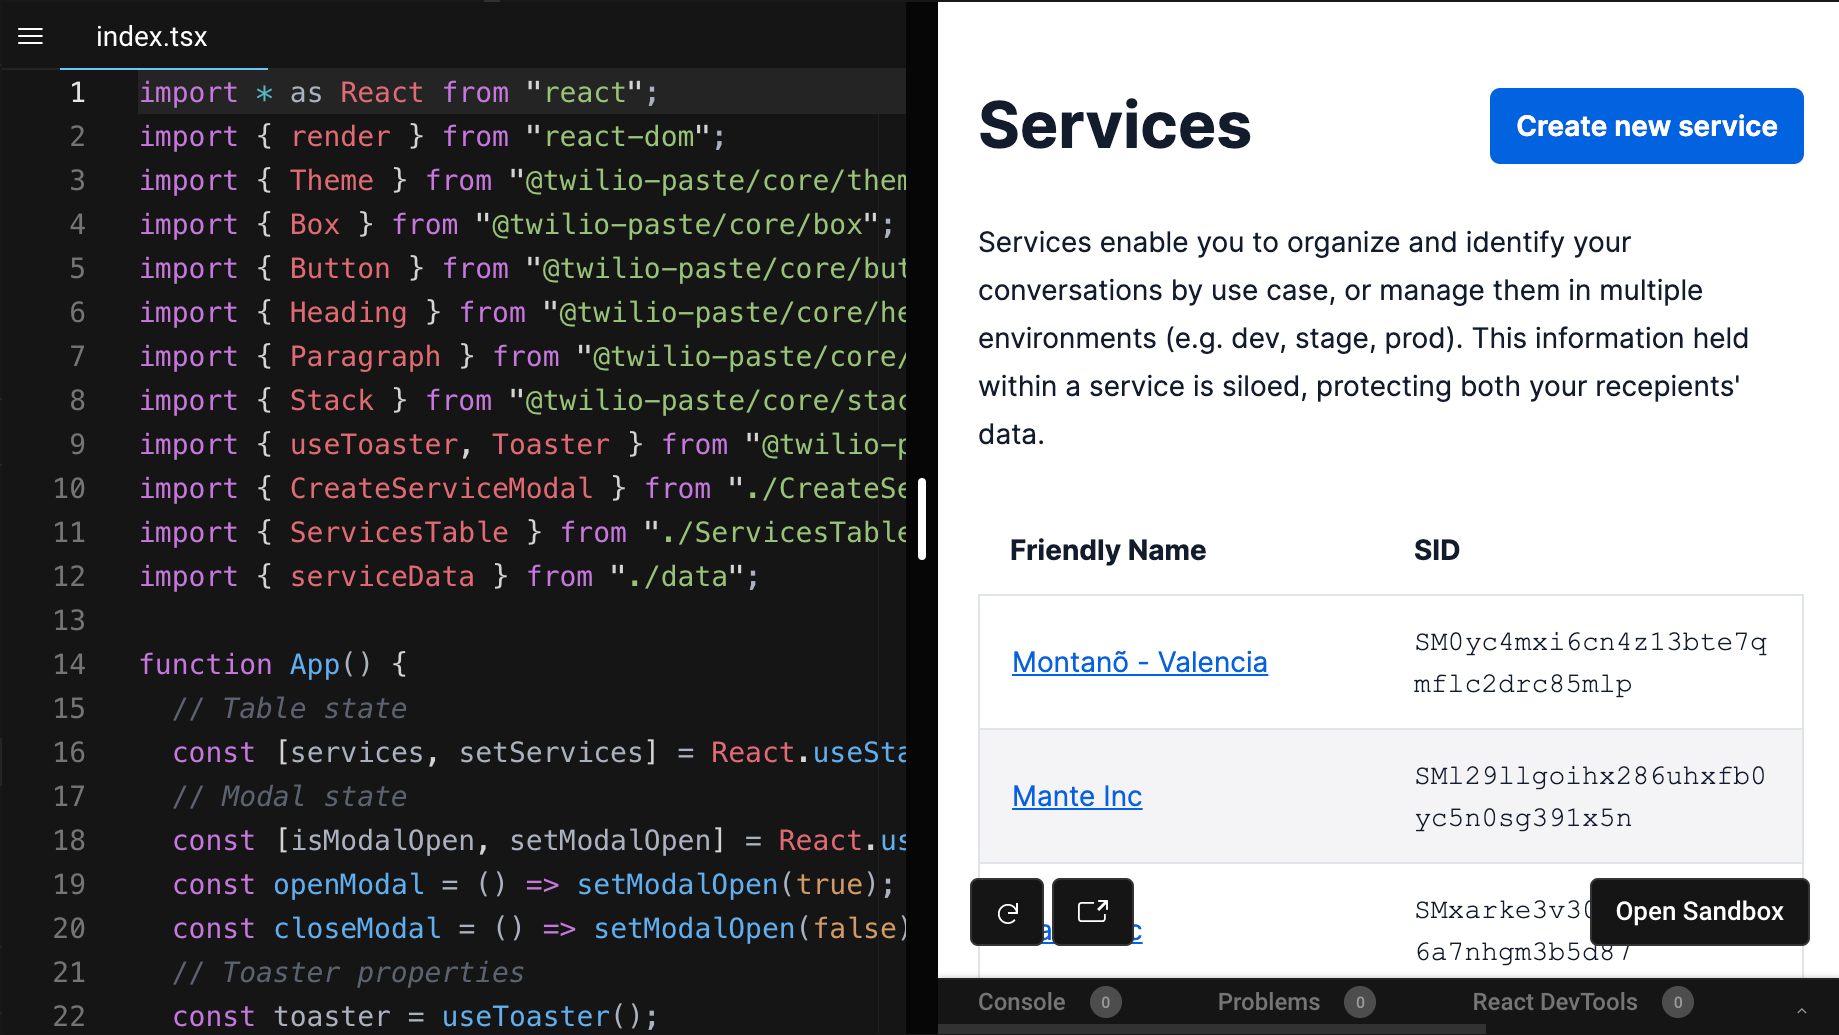
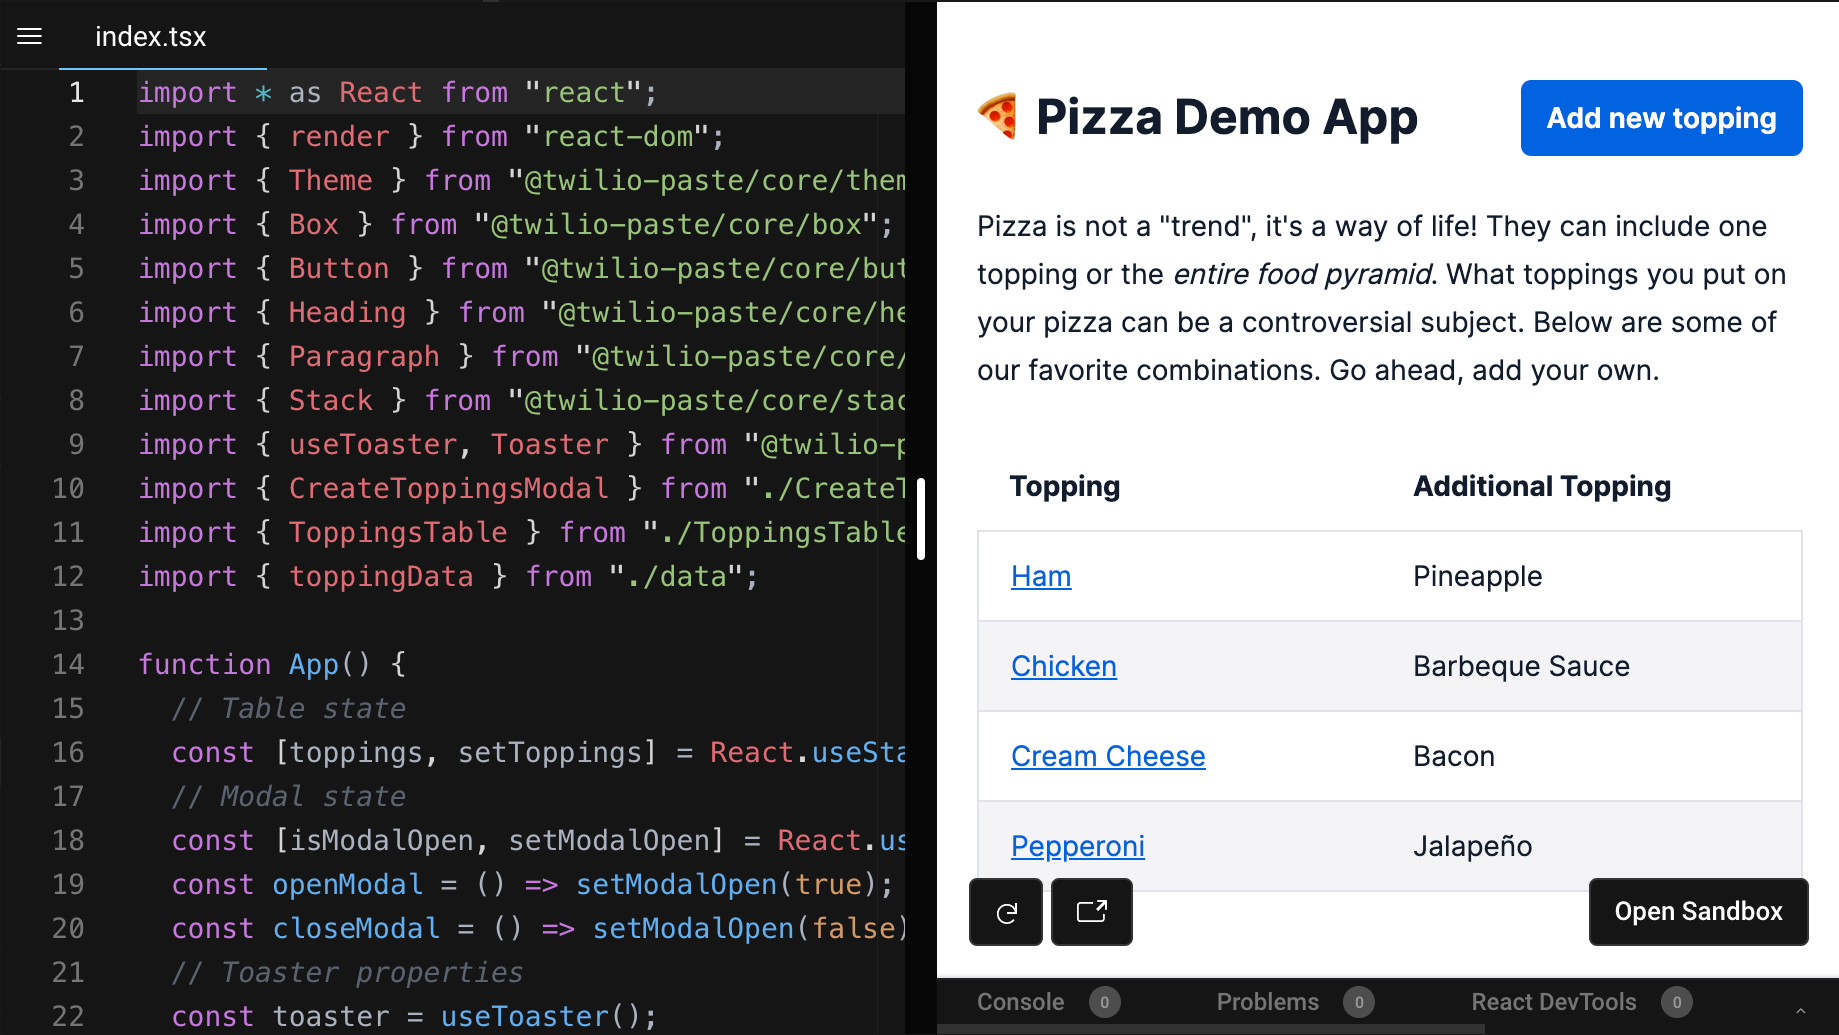
chore(website): change codesandbox embed and image

diff --git a/packages/paste-website/src/components/homepage/Experiment.tsx b/packages/paste-website/src/components/homepage/Experiment.tsx
@@ -50,8 +50,8 @@ const ExperimentEmbed: React.FC = () => {
     <iframe
       frameBorder="0"
       sandbox="allow-forms allow-modals allow-popups allow-presentation allow-same-origin allow-scripts"
-      src="https://codesandbox.io/embed/patterns-create-1jdki?fontsize=14&hidenavigation=1&theme=dark"
-      title="Patterns - Create"
+      src="https://codesandbox.io/embed/pizza-toppings-d8u21?fontsize=14&hidenavigation=1&theme=dark"
+      title="Pizza Demo App"
     />
   );
 };

diff --git a/packages/paste-website/src/components/homepage/ExperimentMobileButton.tsx b/packages/paste-website/src/components/homepage/ExperimentMobileButton.tsx
@@ -27,7 +27,7 @@ const ExperimentMobileButton: React.FC = () => {
         bottom={0}
         left={0}
       >
-        <Button as="a" href="https://codesandbox.io/s/patterns-create-1jdki" variant="primary">
+        <Button as="a" href="https://codesandbox.io/s/pizza-toppings-d8u21" variant="primary">
           Experiment with code
         </Button>
       </Box>

diff --git a/packages/paste-website/src/components/homepage/NewComponentBanner.tsx b/packages/paste-website/src/components/homepage/NewComponentBanner.tsx
@@ -10,7 +10,7 @@ const NewComponentBanner: React.FC = ({children}) => {
       display="inline-flex"
       paddingBottom="space20"
       paddingLeft="space20"
-      paddingRight="space30"
+      paddingRight="space40"
       paddingTop="space20"
     >
       {children}
